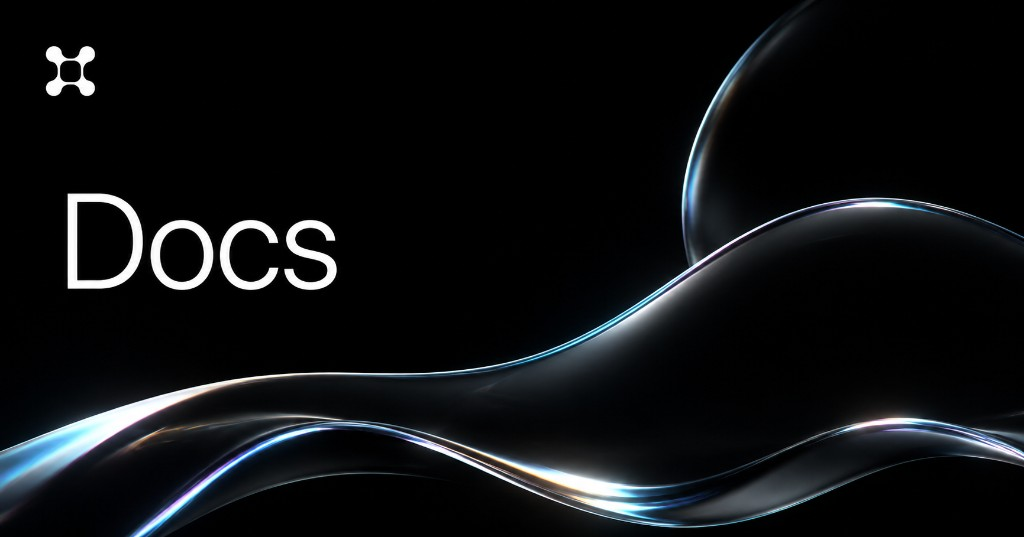
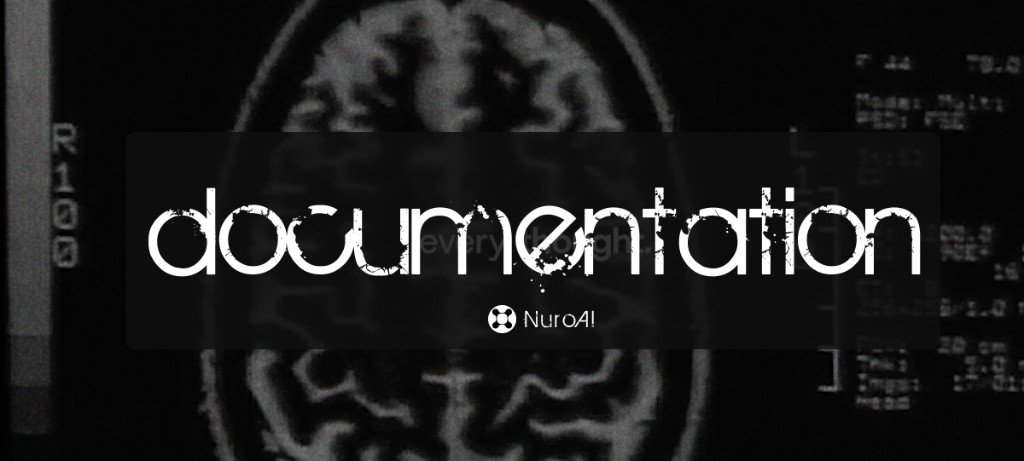
fix(website): add Vercel React Router preset to fix SSR crash
The Vercel build warned `vercelPreset() was not detected`, so all routes
+ deps were bundled into a single serverless function. The new Solana/Privy
deps pushed that over cold-start limits, causing FUNCTION_INVOCATION_FAILED.
Adding the preset splits routes into per-runtime functions. Also ignore
.vercel/ build output and ship remaining rebrand/Solana tweaks.

diff --git a/docs/app/components/layout/docs-shell.tsx b/docs/app/components/layout/docs-shell.tsx
@@ -2,8 +2,6 @@ import { useEffect, useState } from "react";
 import { Link, useLocation } from "react-router";
 import { nav, siblingLinks, type DocLink } from "../../lib/nav";
 import { Toc, type TocItem } from "../util/toc";
-import { socialLinks } from "../brand/icons";
-
 const APP_URL = "https://nuroai.xyz";
 
 function ArrowIcon({ className = "" }: { className?: string }) {
@@ -95,20 +93,6 @@ function Topbar({ open, onToggle }: { open: boolean; onToggle: () => void }) {
         </div>
 
         <div className="flex items-center gap-4 md:gap-5">
-          <div className="hidden items-center gap-3.5 sm:flex">
-            {socialLinks.map(({ label, href, Icon }) => (
-              <a
-                key={label}
-                href={href}
-                target="_blank"
-                rel="noreferrer"
-                aria-label={label}
-                className="text-[#8a8a8a] transition-colors duration-300 hover:text-white"
-              >
-                <Icon className="h-[17px] w-[17px]" />
-              </a>
-            ))}
-          </div>
           <a
             href={APP_URL}
             className="btn-primary px-4 py-2 text-xs md:px-5 md:py-2.5"

diff --git a/website/app/lib/use-browser-worker.ts b/website/app/lib/use-browser-worker.ts
@@ -16,7 +16,7 @@ interface BrowserWorkerHandle {
 }
 
 /**
- * Lifecycle for the in-tab WebGPU (WebLLM) worker. The heavy `@nuro/worker/browser`
+ * Lifecycle for the in-tab WebGPU (WebLLM) worker. The heavy `@nuroaixyz/worker/browser`
  * module (and WebLLM) is dynamically imported only on start, so it never touches SSR.
  */
 export function useBrowserWorker() {
@@ -30,7 +30,7 @@ export function useBrowserWorker() {
     setProgress(0);
     setMessage("Loading model into your browser…");
     try {
-      const { createBrowserWorker } = await import("@nuro/worker/browser");
+      const { createBrowserWorker } = await import("@nuroaixyz/worker/browser");
       const worker = await createBrowserWorker({
         orchestratorUrl: ORCHESTRATOR_WS_URL,
         token,

diff --git a/website/app/root.tsx b/website/app/root.tsx
@@ -27,6 +27,14 @@ export function Layout({ children }: { children: React.ReactNode }) {
       <head>
         <meta charSet="utf-8" />
         <meta name="viewport" content="width=device-width, initial-scale=1" />
+        {/* Social preview (Open Graph + Twitter) */}
+        <meta property="og:type" content="website" />
+        <meta property="og:site_name" content="Nuro AI" />
+        <meta property="og:image" content="https://nuroai.xyz/og.png" />
+        <meta property="og:image:width" content="1024" />
+        <meta property="og:image:height" content="341" />
+        <meta name="twitter:card" content="summary_large_image" />
+        <meta name="twitter:image" content="https://nuroai.xyz/og.png" />
         <Meta />
         <Links />
       </head>

diff --git a/docs/app/root.tsx b/docs/app/root.tsx
@@ -31,7 +31,7 @@ export function Layout({ children }: { children: React.ReactNode }) {
         <meta property="og:site_name" content="Nuro Docs" />
         <meta property="og:image" content="https://docs.nuroai.xyz/og.png" />
         <meta property="og:image:width" content="1024" />
-        <meta property="og:image:height" content="537" />
+        <meta property="og:image:height" content="461" />
         <meta name="twitter:card" content="summary_large_image" />
         <meta name="twitter:site" content="@NuroAIxyz" />
         <meta name="twitter:image" content="https://docs.nuroai.xyz/og.png" />

diff --git a/website/react-router.config.ts b/website/react-router.config.ts
@@ -1,7 +1,11 @@
 import type { Config } from "@react-router/dev/config";
+import { vercelPreset } from "@vercel/react-router/vite";
 
 export default {
   // Config options...
   // Server-side render by default, to enable SPA mode set this to `false`
   ssr: true,
+  // Splits routes into per-route Vercel functions instead of one giant bundle,
+  // so the SSR function doesn't crash at cold-start under the Solana/Privy deps.
+  presets: [vercelPreset()],
 } satisfies Config;

diff --git a/website/app/routes/earn.tsx b/website/app/routes/earn.tsx
@@ -788,7 +788,7 @@ function NativeWorkerCard({
     setErr(null);
     try {
       const token = await getToken("native");
-      setCommand(`npx @nuro/worker --token ${token}`);
+      setCommand(`npx @nuroaixyz/worker --token ${token}`);
     } catch (e) {
       setErr(e instanceof Error ? e.message : "Failed to get command");
     } finally {

diff --git a/nuro_client/src/engines/index.ts b/nuro_client/src/engines/index.ts
@@ -24,7 +24,7 @@ export function createEngine(
       );
     case "webllm":
       throw new Error(
-        "WebLLM runs in the browser. Import from @nuro/worker/browser instead.",
+        "WebLLM runs in the browser. Import from @nuroaixyz/worker/browser instead.",
       );
     default: {
       const _exhaustive: never = model.engine;

diff --git a/orchestrator/src/protocol.ts b/orchestrator/src/protocol.ts
@@ -1,4 +1,4 @@
-// Orchestrator protocol - mirrors @nuro/worker (nuro_client/src/orchestrator/messages.ts
+// Orchestrator protocol - mirrors @nuroaixyz/worker (nuro_client/src/orchestrator/messages.ts
 // and types.ts). Kept in sync by hand; the worker does NOT validate, so the server does.
 
 export type WorkerClass = "native" | "browser";

diff --git a/docs/app/routes/workers.tsx b/docs/app/routes/workers.tsx
@@ -64,7 +64,7 @@ export default function Workers() {
 ollama pull qwen2.5:27b
 
 # 2. start the Nuro worker (connects to the orchestrator)
-npx @nuro/worker \\
+npx @nuroaixyz/worker \\
   --mode native \\
   --model qwen2.5:27b \\
   --token $NURO_WORKER_TOKEN`}</CodeBlock>

diff --git a/website/app/components/sections/products-section.tsx b/website/app/components/sections/products-section.tsx
@@ -10,7 +10,7 @@ const products = [
     rate: "Top rate / token",
     cta: "Get install command",
     href: "/earn",
-    command: "npx @nuro/worker --token YOUR_TOKEN",
+    command: "npx @nuroaixyz/worker --token YOUR_TOKEN",
     Glyph: TerminalGlyph,
   },
   {

diff --git a/nuro_client/README.md b/nuro_client/README.md
@@ -1,6 +1,6 @@
-# @nuro/worker
+# @nuroaixyz/worker
 
-Worker software every Nuro contributor runs - native CLI (Ollama) and browser worker (WebLLM). Published to npm; run the native worker with `npx @nuro/worker --token YOUR_TOKEN`.
+Worker software every Nuro contributor runs - native CLI (Ollama) and browser worker (WebLLM). Published to npm; run the native worker with `npx @nuroaixyz/worker --token YOUR_TOKEN`.
 
 ## Modes
 
@@ -21,16 +21,16 @@ Get your worker token by signing in at [nuroai.xyz](https://nuroai.xyz) (email o
 
 ```bash
 pnpm install
-pnpm --filter @nuro/worker build
+pnpm --filter @nuroaixyz/worker build
 
 # Development (tsx)
-pnpm --filter @nuro/worker dev -- --token YOUR_TOKEN --model qwen2.5:27b --pull
+pnpm --filter @nuroaixyz/worker dev -- --token YOUR_TOKEN --model qwen2.5:27b --pull
 
 # Production binary
-pnpm --filter @nuro/worker start -- --token YOUR_TOKEN
+pnpm --filter @nuroaixyz/worker start -- --token YOUR_TOKEN
 
 # Published
-npx @nuro/worker --token YOUR_TOKEN
+npx @nuroaixyz/worker --token YOUR_TOKEN
 ```
 
 ### CLI options
@@ -53,7 +53,7 @@ Runs a smaller model in-tab over WebGPU via [@mlc-ai/web-llm](https://github.com
 Import from the browser subpath inside `nuroai.xyz`:
 
 ```typescript
-import { createBrowserWorker } from "@nuro/worker/browser";
+import { createBrowserWorker } from "@nuroaixyz/worker/browser";
 
 const worker = await createBrowserWorker({
   orchestratorUrl: "wss://orchestrator.nuroai.xyz/v1/worker",

diff --git a/README.md b/README.md
@@ -6,7 +6,7 @@ Inference network powered by contributed compute - [nuroai.xyz](https://nuroai.x
 |---------|---------------|---------|
 | `nuro-website` | [nuroai.xyz](https://nuroai.xyz) | Landing page + app (`/earn`, staking, API) |
 | `nuro-data` | [data.nuroai.xyz](https://data.nuroai.xyz) | Public network data and analytics |
-| `@nuro/worker` | CLI / browser library (npm) | Contributor worker (Ollama native, WebLLM browser) |
+| `@nuroaixyz/worker` | CLI / browser library (npm) | Contributor worker (Ollama native, WebLLM browser) |
 | `@nuro/orchestrator` | [orchestrator.nuroai.xyz](https://orchestrator.nuroai.xyz) | Worker control plane: WebSocket, worker tokens, job dispatch + metering (Supabase) |
 
 ## Development
@@ -24,7 +24,7 @@ pnpm --filter nuro-data dev
 pnpm --filter @nuro/orchestrator dev
 
 # Native worker (requires a worker token from /earn + Ollama)
-pnpm --filter @nuro/worker dev -- --token YOUR_TOKEN --model qwen2.5:27b --pull
+pnpm --filter @nuroaixyz/worker dev -- --token YOUR_TOKEN --model qwen2.5:27b --pull
 ```
 
 ## Build
@@ -32,5 +32,5 @@ pnpm --filter @nuro/worker dev -- --token YOUR_TOKEN --model qwen2.5:27b --pull
 ```bash
 pnpm --filter nuro-website build
 pnpm --filter nuro-data build
-pnpm --filter @nuro/worker build
+pnpm --filter @nuroaixyz/worker build
 ```
